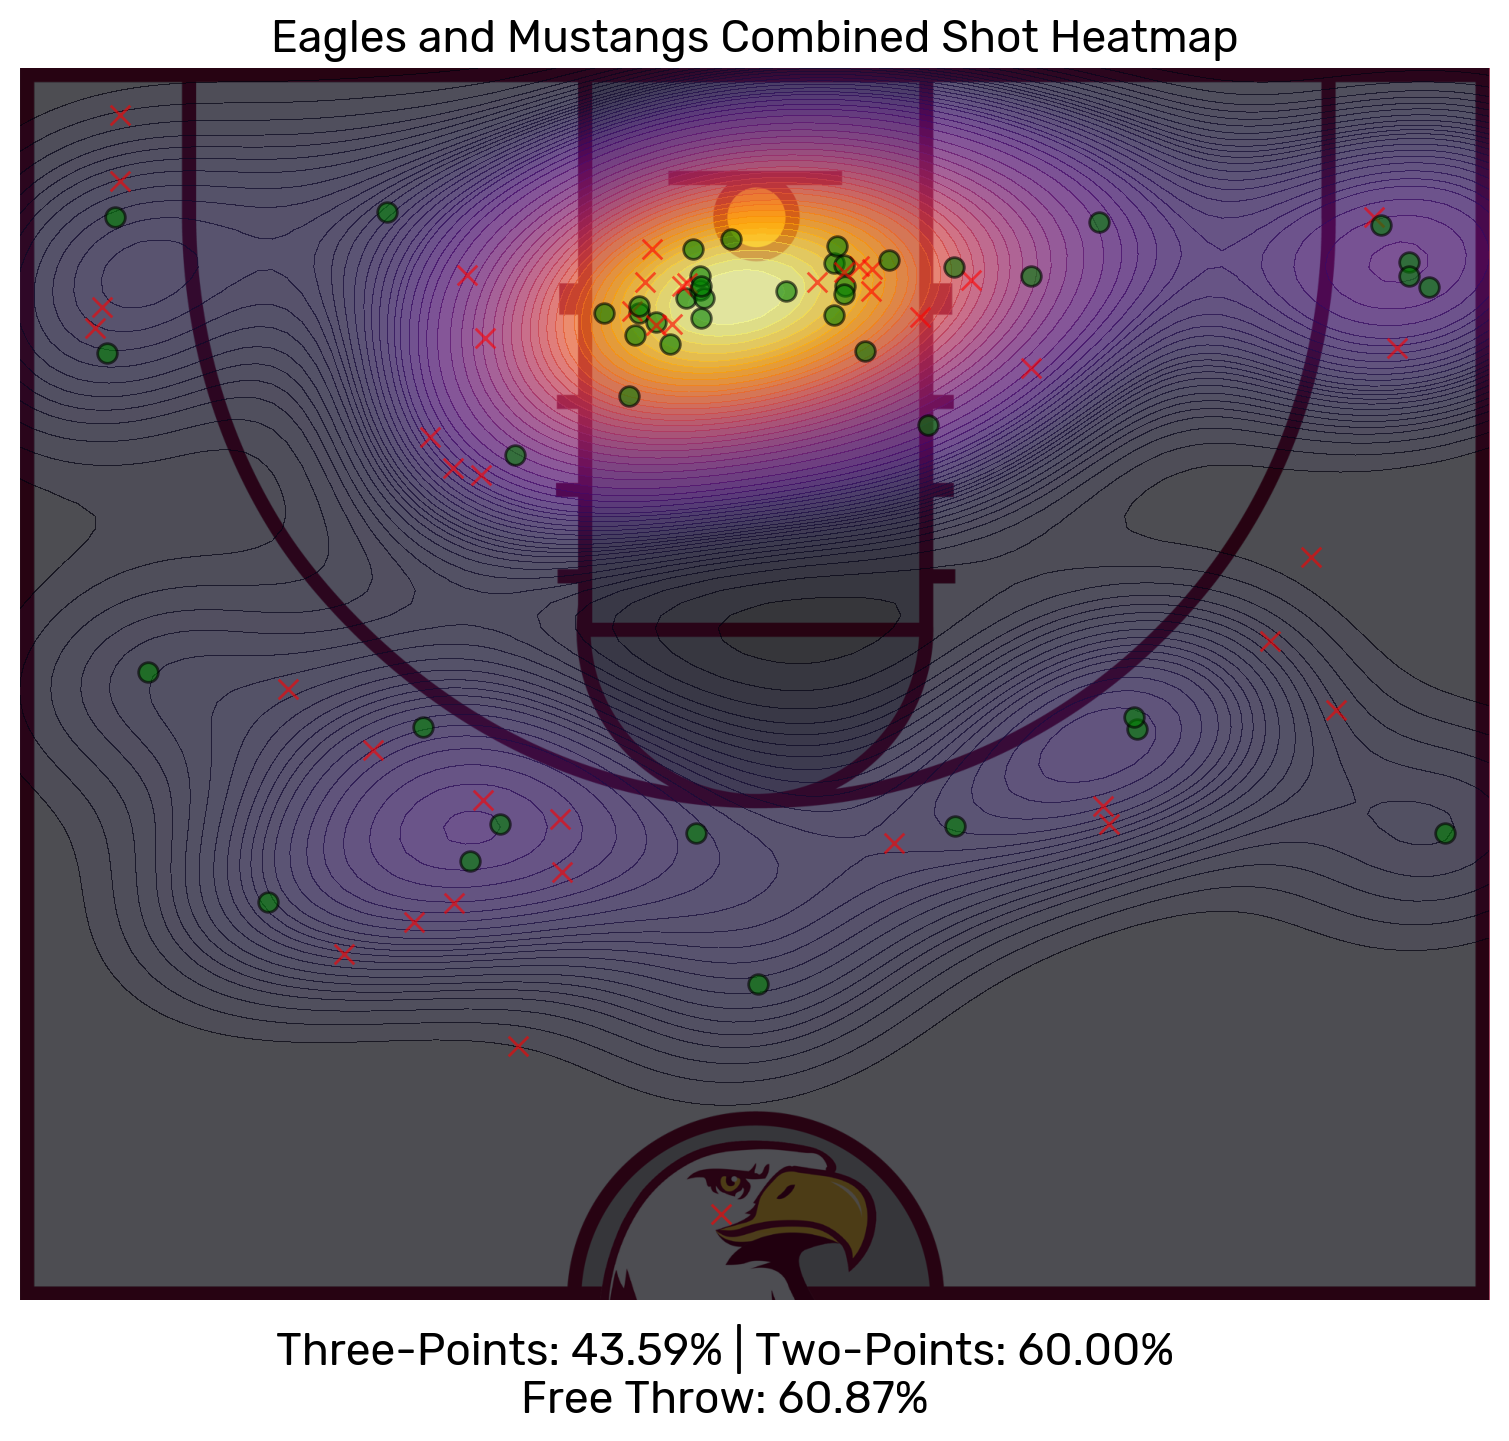
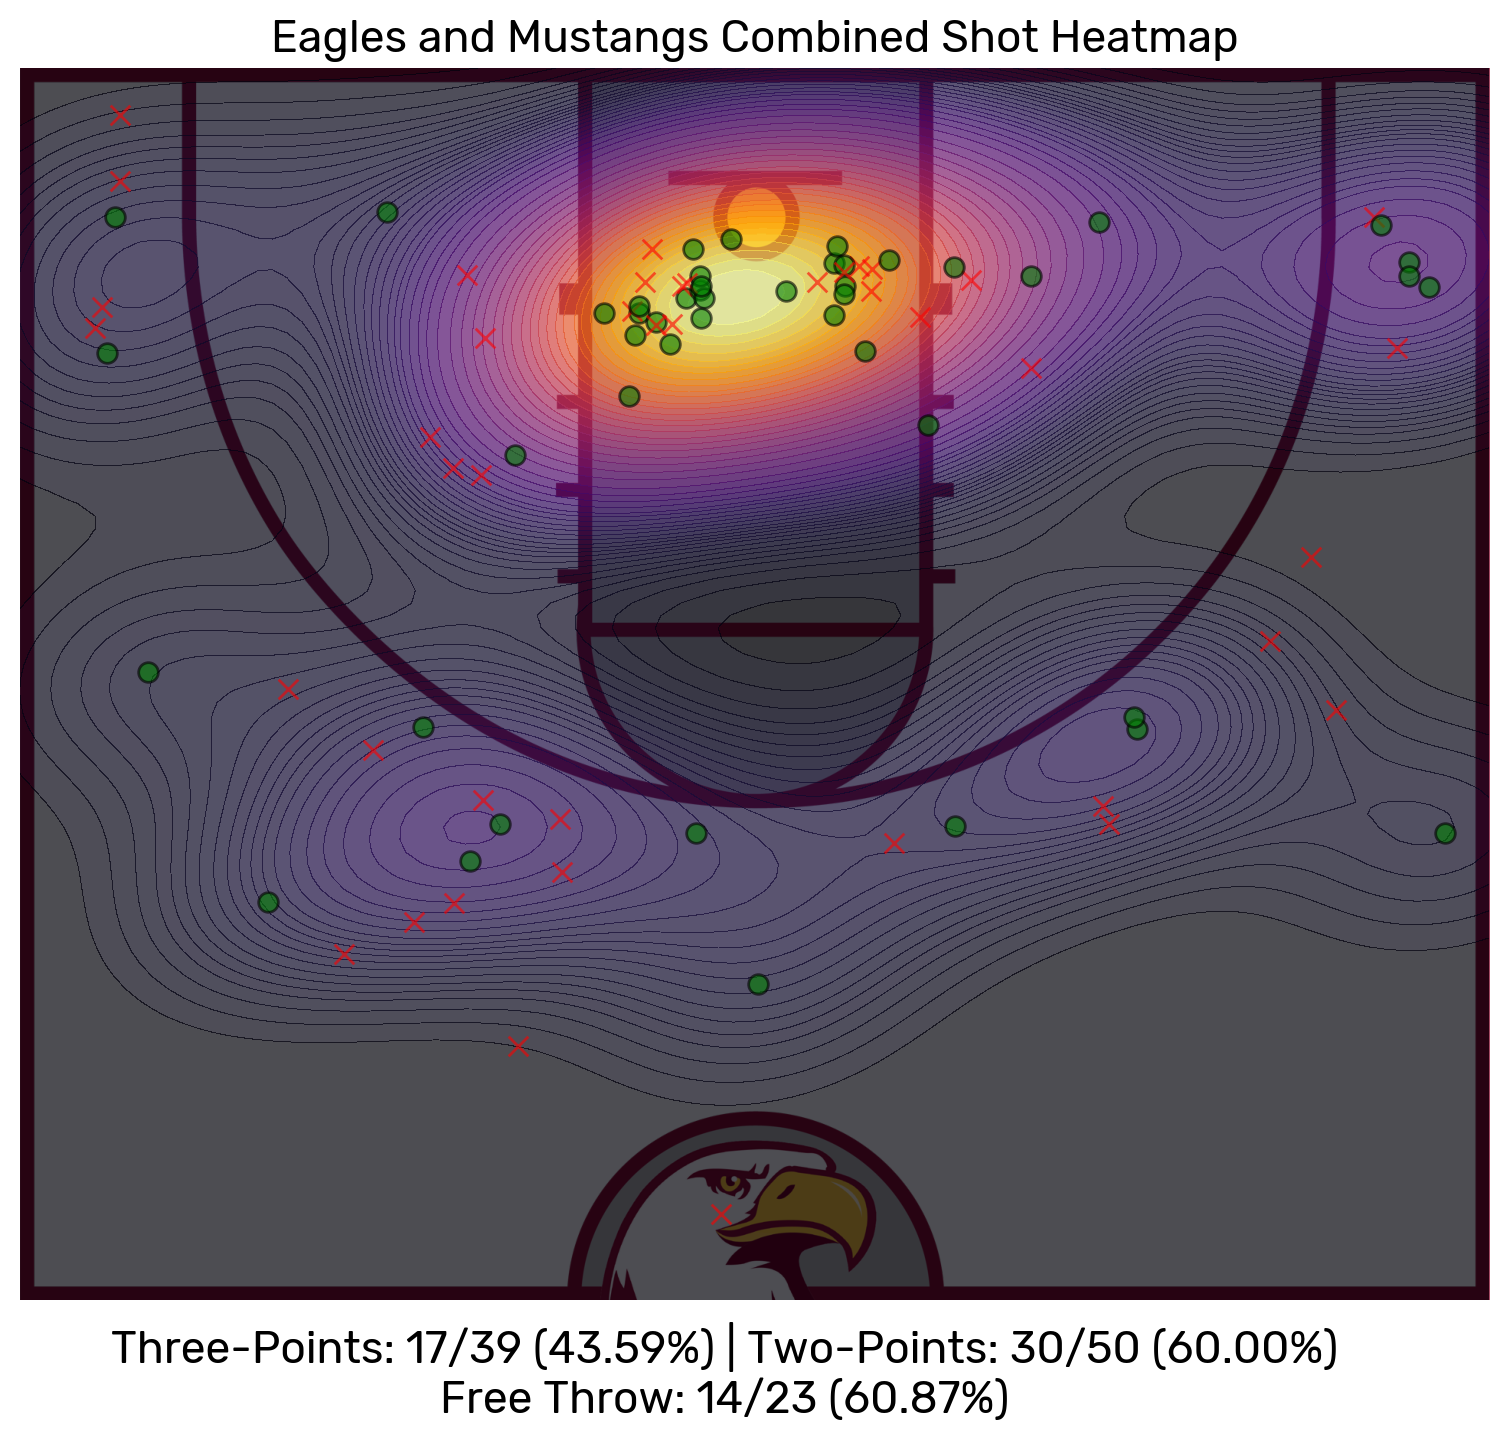
Include made/attempted shots

Changed region(s): [[0.0934, 0.9056, 0.8721, 0.9993]]

diff --git a/heatmap.py b/heatmap.py
@@ -11,11 +11,11 @@ court_width_x = 1920 # Determined by Court.png
 court_height_y = 1610 # Determined by Court.png
 
 # Load JSON data
-with open('X:\\data.json') as f:
-    data = json.load(f)
+""" with open('X:\\data.json') as f:
+    data = json.load(f) """
 
-#with open('W:\\PC vs DCG Girls 25.json') as f:
-#    data = json.load(f)
+with open('W:\\PC vs DCG boys 25.json') as f:
+    data = json.load(f)
 
 # Set font properties
 plt.rcParams['font.family'] = 'Rubik'
@@ -73,7 +73,7 @@ def calculate_percentages(team_players):
     two_percentage = (made_twos / attempted_twos * 100) if attempted_twos else 0
     free_percentage = (made_frees / attempted_frees * 100) if attempted_frees else 0
 
-    return three_percentage, two_percentage, free_percentage
+    return three_percentage, two_percentage, free_percentage, made_threes, attempted_threes, made_twos, attempted_twos, made_frees, attempted_frees
 
 # Extract team names
 team1_name, team2_name = extract_team_names(data)
@@ -152,8 +152,8 @@ def create_heatmap(shot_positions, shot_made, team_name, team_num, percentages, 
     ax.set_title(f'{team_name} Shot Heatmap', fontsize=16, color='black')
 
     # Add text for percentages below the graph
-    three_percentage, two_percentage, free_percentage = percentages
-    fig.text(0.5, 0.04, f'Three-Points: {three_percentage:.2f}% | Two-Points: {two_percentage:.2f}%\nFree Throw: {free_percentage:.2f}%', color='black', fontsize=16, ha='center')
+    three_percentage, two_percentage, free_percentage, made_threes, attempted_threes, made_twos, attempted_twos, made_frees, attempted_frees = percentages
+    fig.text(0.5, 0.04, f'Three-Points: {made_threes}/{attempted_threes} ({three_percentage:.2f}%) | Two-Points: {made_twos}/{attempted_twos} ({two_percentage:.2f}%)\nFree Throw: {made_frees}/{attempted_frees} ({free_percentage:.2f}%)', color='black', fontsize=16, ha='center')
 
     # Add player names below the percentages if provided
     if player_names:
